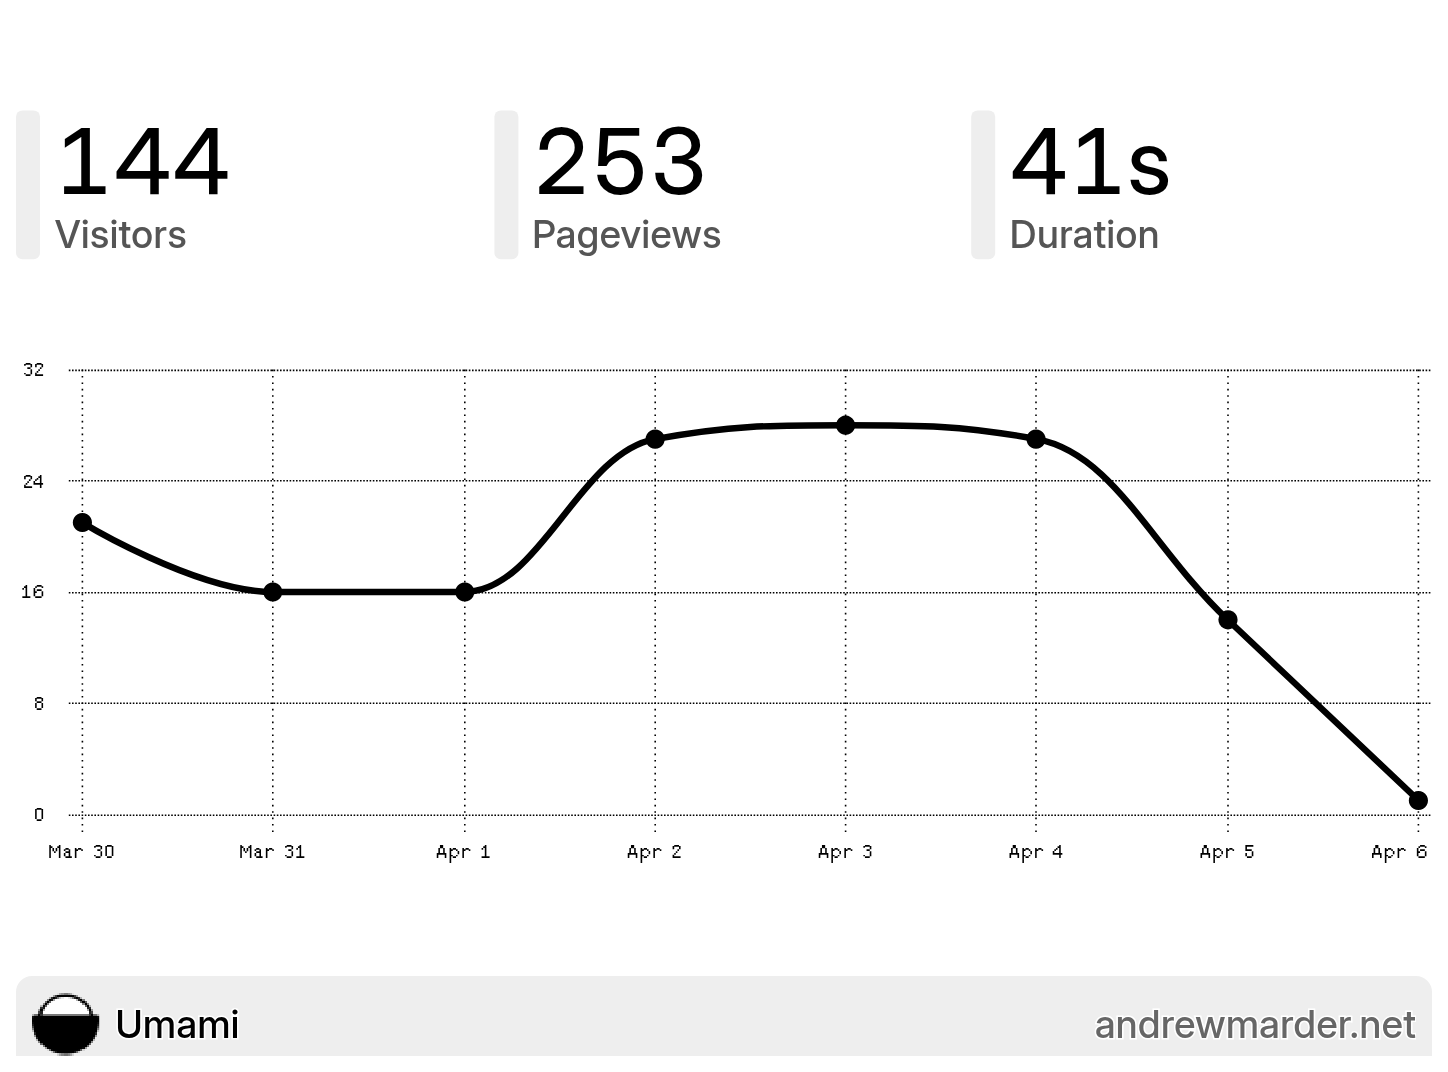
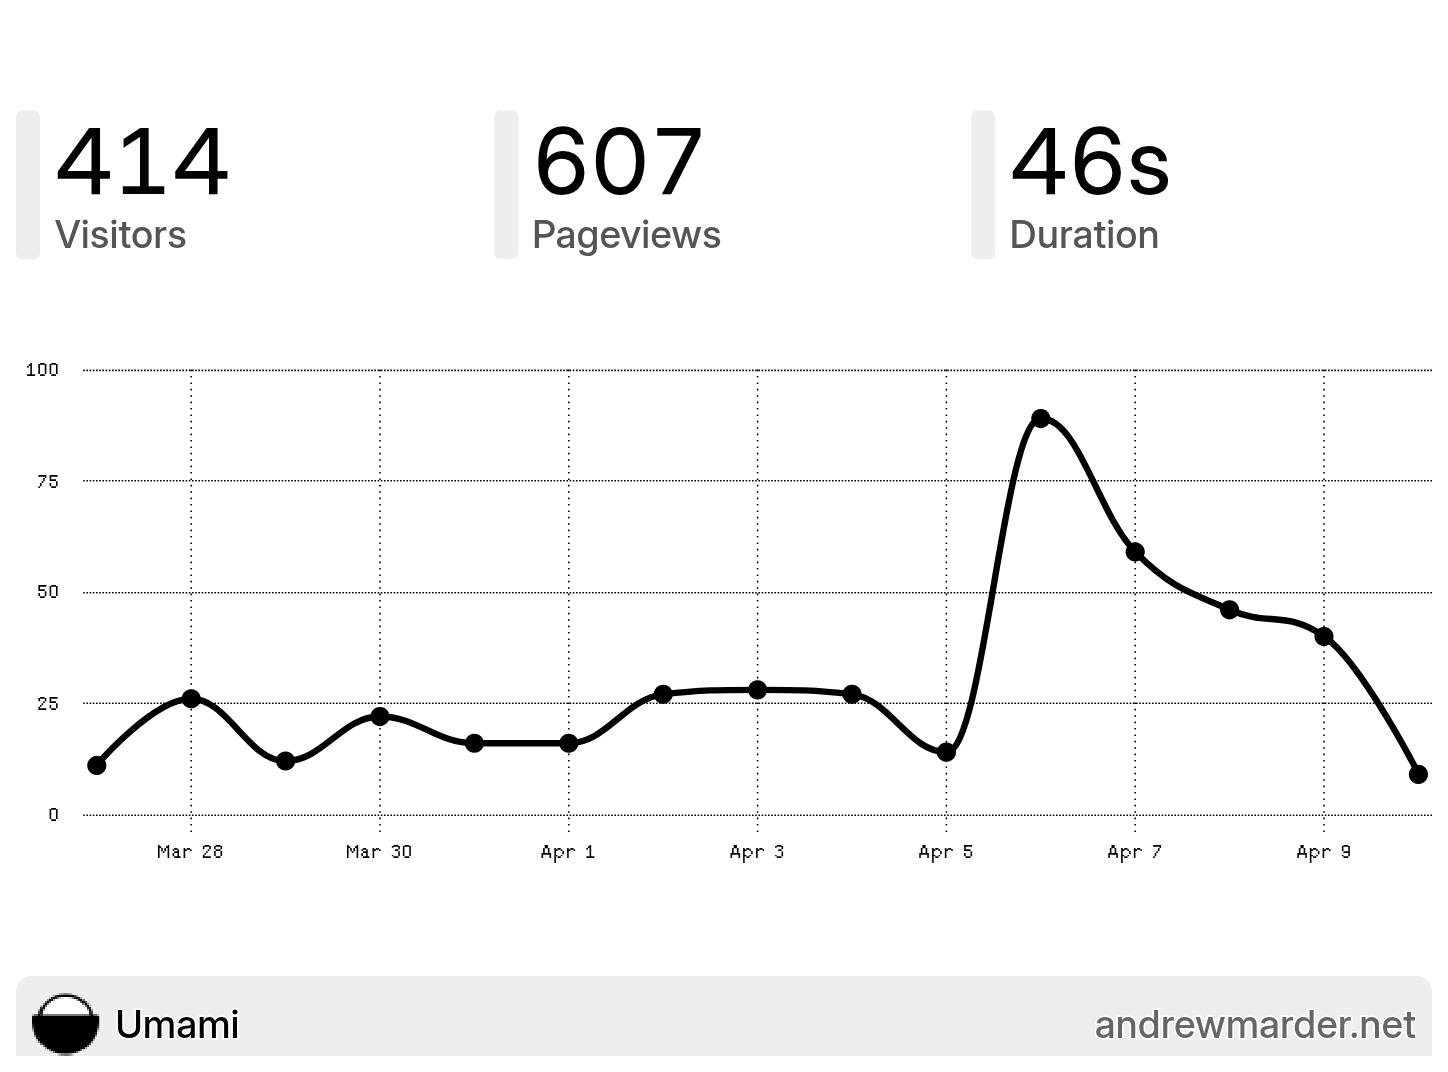
Tweak TRMNL post

diff --git a/src/content/post/trmnl/index.md b/src/content/post/trmnl/index.md
@@ -2,7 +2,7 @@
 title: "TRMNL: My New E-Ink Dashboard"
 description: ""
 publishDate: "2026-04-06"
-updatedDate: "2026-04-09"
+updatedDate: "2026-04-10"
 tags:
   - "e-ink"
 posse:
@@ -21,7 +21,7 @@ posse:
   ></iframe>
 </div>
 
-I've been eyeing the TRMNL X - it looks like some sweet hardware. But I'm cheap. When I learned it was possible to transform an old Kindle into a TRMNL, I had to try it before shelling out for the real thing. I had an old Kindle sitting on a shelf, so off I went. Here are my notes on the process.
+I've been eyeing the TRMNL X - it looks like some sweet hardware. But I'm frugal to a fault. When I learned it was possible to transform an old Kindle into a TRMNL, I decided to try that before ponying up for the real thing. I had an old Kindle sitting on a shelf, so off I went. Here are my notes on the process.
 
 **Things That Didn't Work Well**
 
@@ -31,13 +31,13 @@ I've been eyeing the TRMNL X - it looks like some sweet hardware. But I'm cheap.
 
 3. **[usetrmnl/trmnl-koreader](https://github.com/usetrmnl/trmnl-koreader)** - A TRMNL display plugin for KOReader. This code works reliably, but its battery life wasn't great.
 
-4. **[nicell/trmnl-umami](https://github.com/Nicell/trmnl-umami)** - Following the longstanding tradition of blogging about blogging, I wanted to display my web analytics on my dashboard. Nick Winans' plugin was a helpful starting point, but it didn't seem to work with Umami Cloud.
+4. **[nicell/trmnl-umami](https://github.com/Nicell/trmnl-umami)** - Following the longstanding tradition of blogging about blogging, I wanted to display my web analytics on my dashboard. Nick Winans' plugin was a great starting point, but it didn't seem to work with Umami Cloud.
 
 **What I Landed On**
 
-After some tinkering, I settled on three open source tools that now power my setup:
+After a lot of tinkering, I settled on three open source tools that now power my setup:
 
-1. **[usetrmnl/larapaper](https://github.com/usetrmnl/larapaper)** - A TRMNL BYOS that supports plugins. This replaced Terminus.
+1. **[usetrmnl/larapaper](https://github.com/usetrmnl/larapaper)** - A TRMNL BYOS that supports plugins.
 
 2. **[amarder/kindle-trmnl](https://github.com/amarder/kindle-trmnl)** - A custom TRMNL client that takes battery efficiency to the max. After the client fetches and displays the dashboard, it immediately puts the Kindle to sleep. Pressing the power button wakes the device, updates the dashboard, and puts it back to sleep. By requiring a manual press of the power button to refresh the dashboard, we can dramatically extend the runtime on a single charge.
 
@@ -45,10 +45,10 @@ After some tinkering, I settled on three open source tools that now power my set
 
 ![A screenshot of trmnl-umami](umami.png)
 
-<!--
-WARNING: Only the full layout is working in my trmnl-umami plugin (half and quadrant layouts are broken). If you need those layouts, please reach out. Knowing someone else wants to use it would motivate me to fix these issues.
--->
+:::note
+The kindle-trmnl and trmnl-umami projects I've posted on GitHub are works in progress. If you're interested in trying them, feel free to reach out, since there are lots of rough edges.
+:::
 
 **Overall**
 
-I'm very happy with my new dashboard. It gives me a dedicated place to glance at things I'd otherwise pull out my phone to check: weather, web analytics, finances. Now I can see all of that without getting sucked into my phone.
+I'm very happy with my new dashboard. It gives me a dedicated place to get a feel for reader engagement. By pressing a button, I can quickly see my latest web analytics. I'm hopeful this will help me spend less time browsing analytics data on my phone.
